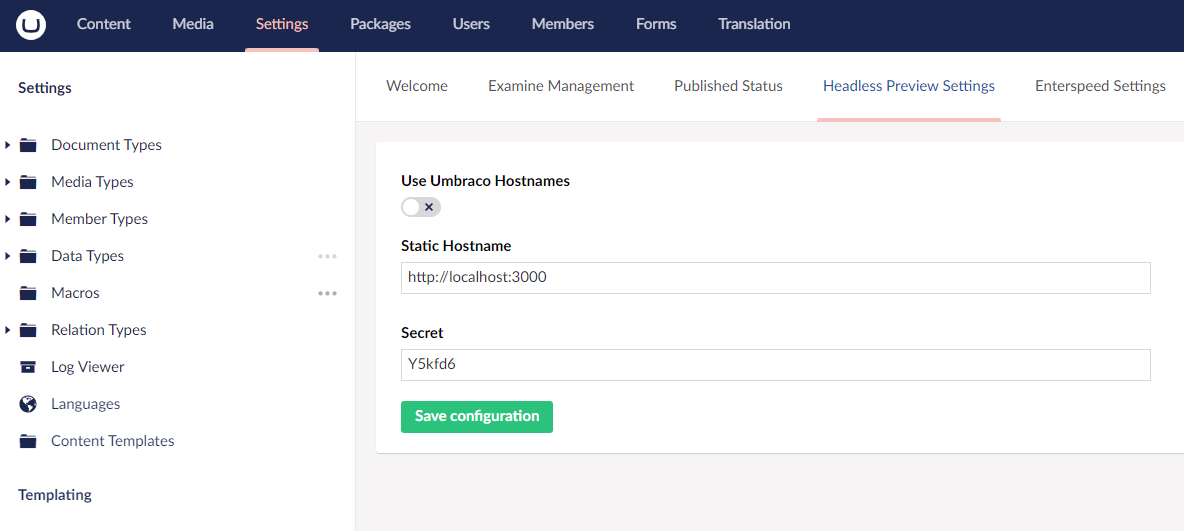
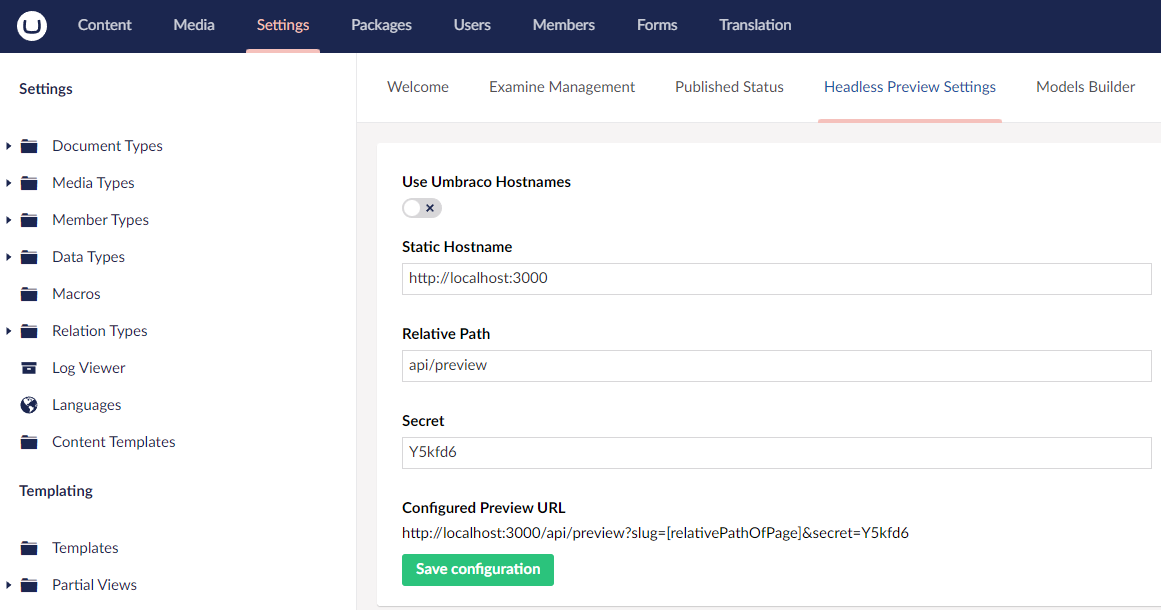
Added option to configure relative path and added tempalte url

diff --git a/src/Our.Umbraco.HeadlessPreview/App_Plugins/Our.Umbraco.HeadlessPreview/views/configuration.html b/src/Our.Umbraco.HeadlessPreview/App_Plugins/Our.Umbraco.HeadlessPreview/views/configuration.html
@@ -13,7 +13,7 @@
                     </div>
 
                     <div class="configuration-dashboard-property">
-                        <label for="use-umbraco-hostnames">Use Umbraco Hostnames</label><br/>
+                        <label for="use-umbraco-hostnames">Use Umbraco Hostnames</label><br />
 
                         <button role="checkbox" type="button" class="umb-toggle"
                                 ng-disabled="vm.buttonState === 'busy' || vm.configuration.configuredFromSettingsFile"
@@ -43,12 +43,20 @@
                         </button>
                     </div>
                     <div class="configuration-dashboard-property" ng-if="!vm.configuration.useUmbracoHostnames">
-                        <label for="static-hostname">Static Hostname</label><br/>
-                        <input type="text" id="static-hostname" class="input-field" ng-model="vm.configuration.staticHostname" placeholder="Static Hostname" ng-disabled="vm.buttonState === 'busy' || vm.configuration.configuredFromSettingsFile"/>
+                        <label for="static-hostname">Static Hostname</label><br />
+                        <input type="text" id="static-hostname" class="input-field" ng-change="vm.updateTemplateUrl()" ng-model="vm.configuration.staticHostname" ng-disabled="vm.buttonState === 'busy' || vm.configuration.configuredFromSettingsFile" />
                     </div>
                     <div class="configuration-dashboard-property">
-                        <label for="secret">Secret</label><br/>
-                        <input type="text" id="secret" class="input-field" ng-model="vm.configuration.secret" placeholder="Secret" ng-disabled="vm.buttonState === 'busy' || vm.configuration.configuredFromSettingsFile"/>
+                        <label for="relative-path">Relative Path</label><br />
+                        <input type="text" id="relative-path" class="input-field" ng-change="vm.updateTemplateUrl()" ng-model="vm.configuration.relativePath" ng-disabled="vm.buttonState === 'busy' || vm.configuration.configuredFromSettingsFile" />
+                    </div>
+                    <div class="configuration-dashboard-property">
+                        <label for="secret">Secret</label><br />
+                        <input type="text" id="secret" class="input-field" ng-change="vm.updateTemplateUrl()" ng-model="vm.configuration.secret" ng-disabled="vm.buttonState === 'busy' || vm.configuration.configuredFromSettingsFile" />
+                    </div>
+                    <div class="configuration-dashboard-property">
+                        <label>Configured Preview URL</label><br />
+                        <span>{{vm.configuration.templateUrl}}</span>
                     </div>
 
                     <umb-button ng-if="!vm.configuration.configuredFromSettingsFile" action="vm.saveConfiguration()"

diff --git a/src/Our.Umbraco.HeadlessPreview/App_Plugins/Our.Umbraco.HeadlessPreview/js/configuration.controller.js b/src/Our.Umbraco.HeadlessPreview/App_Plugins/Our.Umbraco.HeadlessPreview/js/configuration.controller.js
@@ -10,6 +10,19 @@
 
     vm.toggleUseUmbracoHostnames = function () {
         vm.configuration.useUmbracoHostnames = !vm.configuration.useUmbracoHostnames;
+        vm.updateTemplateUrl();
+    }
+
+    vm.updateTemplateUrl = function () {
+
+        var hostname = vm.configuration.useUmbracoHostnames ? "[siteHostname]" : vm.configuration.staticHostname?.trimEnd('/');
+        var relativePath = vm.configuration.relativePath?.trimStart('/');
+
+        var parametersToAdd = "?slug=[relativePathOfPage]";
+        if (vm.configuration.secret)
+            parametersToAdd += "&secret=" + vm.configuration.secret;
+
+        vm.configuration.templateUrl = hostname + "/" + relativePath + parametersToAdd
     }
 
     vm.getConfiguration = function () {
@@ -20,10 +33,13 @@
                 if (result.data.isSuccess) {
                     vm.configuration.useUmbracoHostnames = result.data.data.useUmbracoHostnames;
                     vm.configuration.staticHostname = result.data.data.staticHostname;
+                    vm.configuration.relativePath = result.data.data.relativePath;
                     vm.configuration.secret = result.data.data.secret;
                     vm.configuration.configuredFromSettingsFile = result.data.data.configuredFromSettingsFile;
                     vm.loadingConfiguration = false;
                     vm.buttonState = null;
+
+                    vm.updateTemplateUrl();
                 }
             });
     };

diff --git a/src/Our.Umbraco.HeadlessPreview/Services/PreviewConfigurationService.cs b/src/Our.Umbraco.HeadlessPreview/Services/PreviewConfigurationService.cs
@@ -15,6 +15,7 @@ namespace Our.Umbraco.HeadlessPreview.Services
 
         private const string ConfigurationUseUmbracoHostnamesDatabaseKey = "HeadlessPreview+Configuration+UseUmbracoHostnames";
         private const string ConfigurationStaticHostnameDatabaseKey = "HeadlessPreview+Configuration+StaticHostname";
+        private const string ConfigurationRelativePathDatabaseKey = "HeadlessPreview+Configuration+RelativePath";
         private const string ConfigurationSecretDatabaseKey = "HeadlessPreview+Configuration+Secret";
 
         public PreviewConfigurationService(IKeyValueService keyValueService, IConfiguration configuration)
@@ -72,6 +73,7 @@ namespace Our.Umbraco.HeadlessPreview.Services
             
             _keyValueService.SetValue(ConfigurationUseUmbracoHostnamesDatabaseKey, configuration.UseUmbracoHostnames.ToString());
             _keyValueService.SetValue(ConfigurationStaticHostnameDatabaseKey, configuration.StaticHostname);
+            _keyValueService.SetValue(ConfigurationRelativePathDatabaseKey, configuration.RelativePath);
             _keyValueService.SetValue(ConfigurationSecretDatabaseKey, configuration.Secret);
 
             _previewConfiguration = configuration;
@@ -79,18 +81,27 @@ namespace Our.Umbraco.HeadlessPreview.Services
 
         private PreviewConfiguration GetConfigurationFromSettingsFile()
         {
-            return _configuration.GetSection("HeadlessPreview").Get<PreviewConfiguration>();
+            var configuration = _configuration.GetSection("HeadlessPreview").Get<PreviewConfiguration>();
+
+            if (configuration is not null)
+            {
+                configuration.RelativePath ??= "api/preview";
+            }
+
+            return configuration;
         }
 
         private PreviewConfiguration GetConfigurationFromDatabase()
         {
             var useUmbracoHostnamesAsString = _keyValueService.GetValue(ConfigurationUseUmbracoHostnamesDatabaseKey);
             var staticHostname = _keyValueService.GetValue(ConfigurationStaticHostnameDatabaseKey);
+            var relativePath = _keyValueService.GetValue(ConfigurationRelativePathDatabaseKey);
             var secret = _keyValueService.GetValue(ConfigurationSecretDatabaseKey);
 
             var configuration = new PreviewConfiguration
             {
                 StaticHostname = staticHostname,
+                RelativePath = relativePath ?? "api/preview",
                 Secret = secret
             };
 

diff --git a/src/Our.Umbraco.HeadlessPreview/Controllers/HeadlessPreviewController.cs b/src/Our.Umbraco.HeadlessPreview/Controllers/HeadlessPreviewController.cs
@@ -44,28 +44,28 @@ namespace Our.Umbraco.HeadlessPreview.Controllers
 
             var previewConfiguration = _previewConfigurationService.GetConfiguration();
 
-            Uri uri;
+            Uri nodeUrl;
             using (var contextReference = _umbracoContextFactory.EnsureUmbracoContext())
             {
                 var publishedContent = contextReference.UmbracoContext.Content?.GetById(true, nodeId);
-                uri = publishedContent?.BuildUrlForUnpublishedNode(previewConfiguration, _umbracoContextFactory, _domainService);
+                nodeUrl = publishedContent?.BuildUrlForUnpublishedNode(previewConfiguration, _umbracoContextFactory, _domainService);
             }
 
-            if (uri == null)
+            if (nodeUrl == null)
             {
                 _logger.LogError("No domain has been set for the Umbraco site. Set a domain in Culture and Hostnames for the site root node.");
                 await HttpContext.Response.WriteAsync("No domain has been set for the Umbraco site. Set a domain in Culture and Hostnames for the site root node.");
                 return;
             }
 
-            var domain = uri.GetLeftPart(UriPartial.Authority);
-            var path = uri.AbsolutePath.TrimEnd('/');
+            var domain = nodeUrl.GetLeftPart(UriPartial.Authority);
+            var path = nodeUrl.AbsolutePath.TrimEnd('/');
 
             var parametersToAdd = new Dictionary<string, string> { { "slug", path } };
             if(!string.IsNullOrWhiteSpace(previewConfiguration.Secret))
                 parametersToAdd.Add("secret", previewConfiguration.Secret);
             
-            var redirectUrl = QueryHelpers.AddQueryString($"{domain}/api/preview", parametersToAdd);
+            var redirectUrl = QueryHelpers.AddQueryString($"{domain}/{previewConfiguration.RelativePath.Trim().TrimStart('/')}", parametersToAdd);
             
             HttpContext.Response.Redirect(redirectUrl, false);
         }

diff --git a/src/Our.Umbraco.HeadlessPreview/Models/PreviewConfiguration.cs b/src/Our.Umbraco.HeadlessPreview/Models/PreviewConfiguration.cs
@@ -4,6 +4,7 @@
     {
         public bool UseUmbracoHostnames { get; set; }
         public string StaticHostname { get; set; }
+        public string RelativePath { get; set; }
         public string Secret { get; set; }
         public bool ConfiguredFromSettingsFile { get; set; }
     }

diff --git a/README.md b/README.md
@@ -28,17 +28,18 @@ Install-Package Our.Umbraco.HeadlessPreview -Version <version>
 The package can be configured using the `appsetings.json` file or using the UI which will save the configuration in the database.
 
 
-| Setting               | Default value     |  Description |
-|----------             |-------------      |------ |
-| `UseUmbracoHostnames` | `false`           | If set to true the domain from the `Culture and Hostnames` for the site is used as preview hostname.<br/><br/>If set to false the value from `StaticHostname` is used. |
+| Setting               | Default value        | Description |
+|----------             |-------------         |------ |
+| `UseUmbracoHostnames` | `false`              | If set to true the domain from the `Culture and Hostnames` for the site is used as preview hostname.<br/><br/>If set to false the value from `StaticHostname` is used. |
 | `StaticHostname`      | `''`                 | The hostname used for preview if `UseUmbracoHostnames` is set to false. |
+| `RelativePath`        | `'api/preview'`      | The relative path to be used after the hostname. |
 | `Secret`              | `''`                 | A secret value passed to the preview site for authentication. |
 
 ### UI
 
 If you just have a single environment it's easy to just configure the plugin directly from the Umbraco Backoffice in the Settings section.
 
-![Configuration](https://raw.githubusercontent.com/jesperweber/Our.Umbraco.HeadlessPreview/main/screenshots/Settings.png "Title")
+![Configuration](https://raw.githubusercontent.com/jesperweber/Our.Umbraco.HeadlessPreview/main/screenshots/Settings.png "Headless Preview Settings")
 
 ### appsettings.json
 This is typically the preferred way if you have a multi environment setup as you can use environment specific settings.
@@ -47,13 +48,14 @@ This is typically the preferred way if you have a multi environment setup as you
 "HeadlessPreview": {
     "UseUmbracoHostnames": false,
     "StaticHostname": "https://mysite.com",
+    "RelativePath": "api/preview",
     "Secret": "mySecret"
 }
 ```
 
 ## Changelog
 
-See new features, fixes and breaking changes in the [changelog](https://github.com/jesperweber/Our.Umbraco.HeadlessPreview/blob/main/CHANGELOG.md).
+See new features, fixes and breaking changes for each [Release](https://github.com/jesperweber/Our.Umbraco.HeadlessPreview/releases).
 
 
 ## Contributing

diff --git a/releaseNotes/1.1.0.md b/releaseNotes/1.1.0.md
@@ -1,0 +1,3 @@
+Added option to configure the relative path of the preview url
+
+Added template URL to see how the configured preview URL would be
